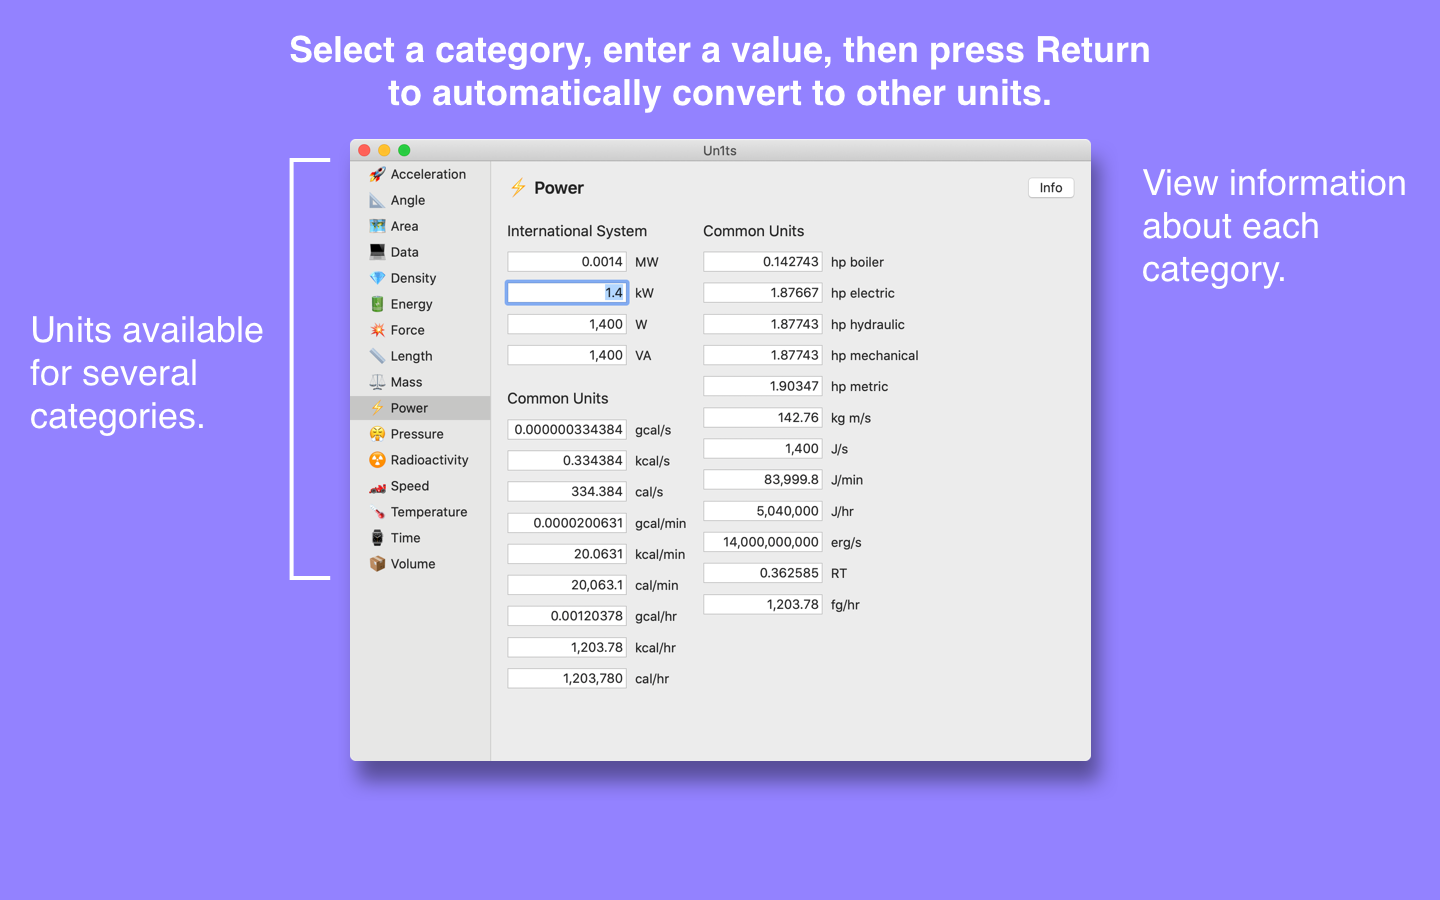
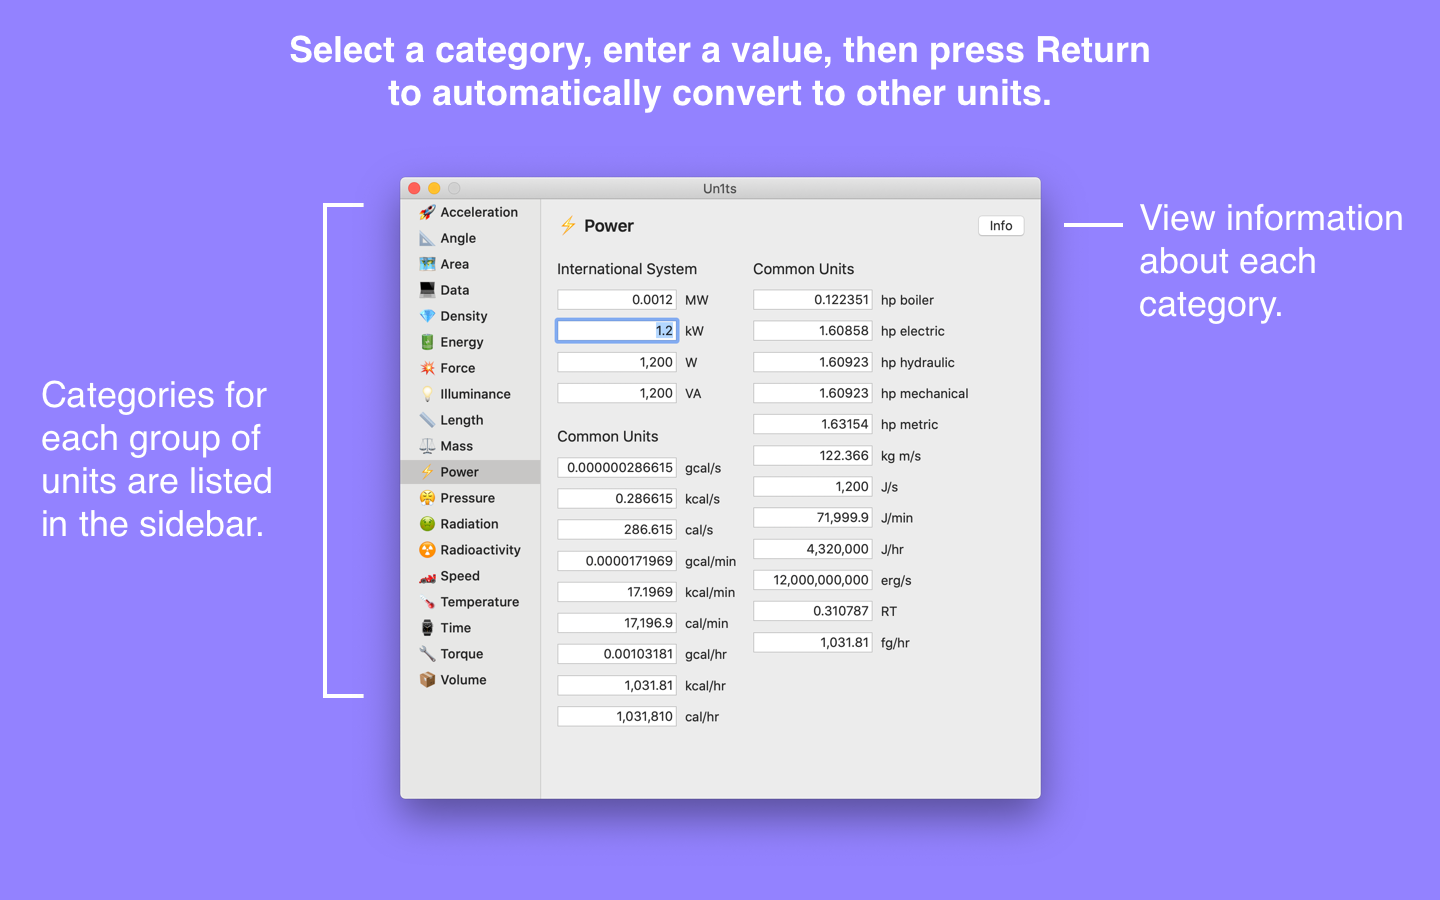
Update screenshots

Changed region(s): [[0.0, 0.1556, 0.9688, 0.9333]]

diff --git a/un1ts.html b/un1ts.html
@@ -15,7 +15,7 @@
             <img class="mx-auto d-block my-5" src="assets/images/icon128.svg" alt="app icon">
             <h1 class="mt-0">Un1ts</h1>
 
-            <p>Un1ts is a comprehensive unit converter for the Mac. The app is built with Swift and SwiftUI to support the latest features of macOS. Just enter a value in a field then press the Return key to automatically convert to all units in a category.</p>
+            <p>Un1ts is a comprehensive unit converter for the Mac. This native app is built with Swift and SwiftUI to support the latest features of macOS. Just enter a value in a field then press the Return key to automatically convert to all units in a category.</p>
 
             <p>Categories for unit conversion include:</p>
             <ul style="column-count: 2; -webkit-column-count: 2; -moz-column-count: 2">
@@ -23,16 +23,24 @@
                 <li>Angle</li>
                 <li>Area</li>
                 <li>Data</li>
+                <li>Density</li>
+                <li>Energy</li>
                 <li>Force</li>
+                <li>Illuminance</li>
                 <li>Length</li>
                 <li>Mass</li>
+                <li>Power</li>
                 <li>Pressure</li>
+                <li>Radiation</li>
                 <li>Radioactivity</li>
                 <li>Speed</li>
                 <li>Temperature</li>
+                <li>Time</li>
+                <li>Torque</li>
                 <li>Volume</li>
-                <li>Weight</li>
             </ul>
+
+            <p><a href="#"><b>App Store</b></a> - Un1ts is available exclusively on the Mac App Store.</p>
 
             <p><a href="mailto:wiggingATmeDOTcom" onclick = "this.href=this.href.replace(/AT/,'&#64;').replace(/DOT/,'&#46;')"><b>Email</b></a> -  Questions, comments, and other feedback.</p>
 
@@ -41,6 +49,10 @@
             <p><img src="assets/images/screenshot-1.png" class="img-fluid" alt="screenshot 1"></p>
 
             <p><img src="assets/images/screenshot-2.png" class="img-fluid" alt="screenshot 2"></p>
+
+            <p><img src="assets/images/screenshot-3.png" class="img-fluid" alt="screenshot 3"></p>
+
+            <p><img src="assets/images/screenshot-4.png" class="img-fluid" alt="screenshot 4"></p>
 
             <p class="text-center my-5">Un1ts © 2020</p>
         </div>
